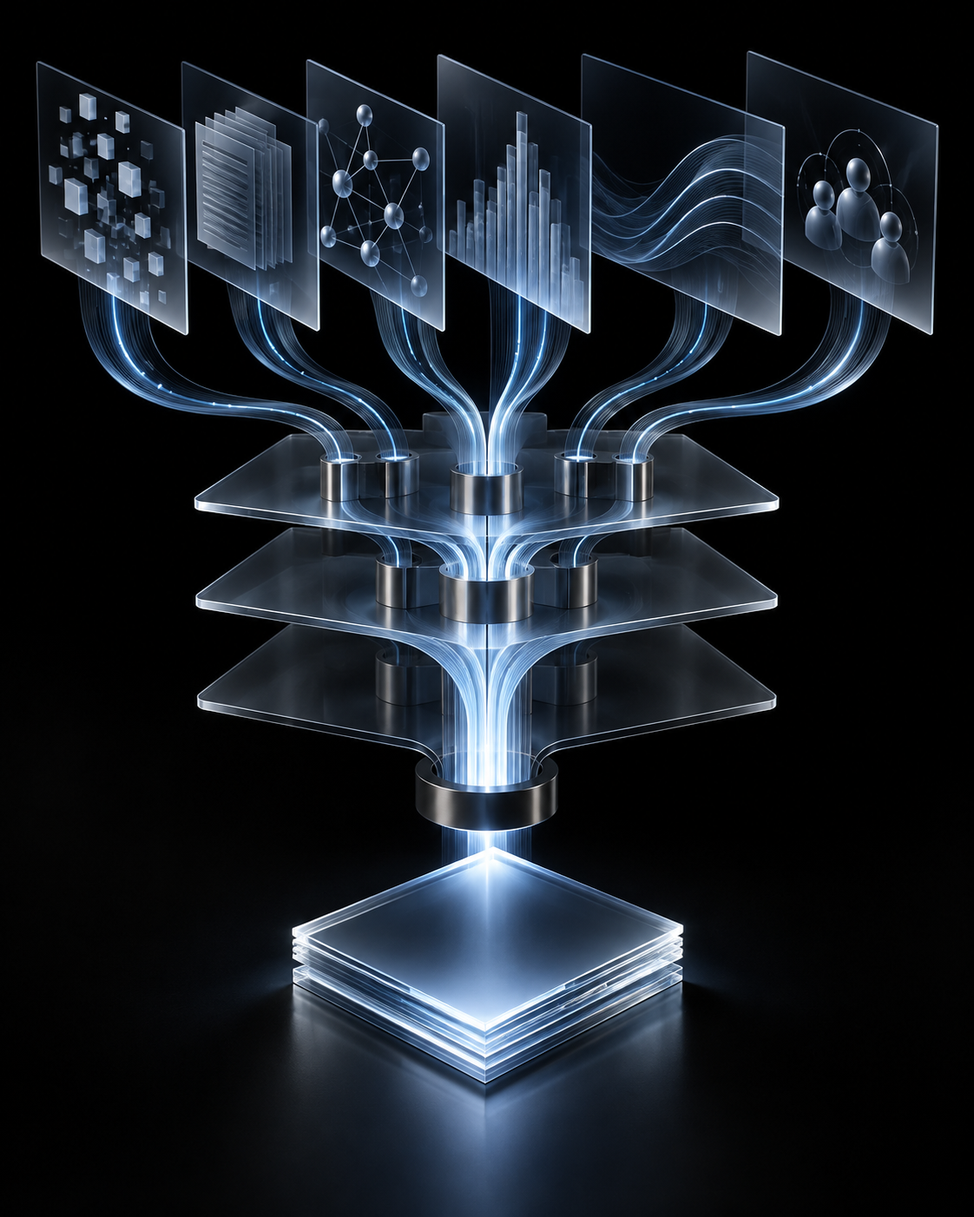
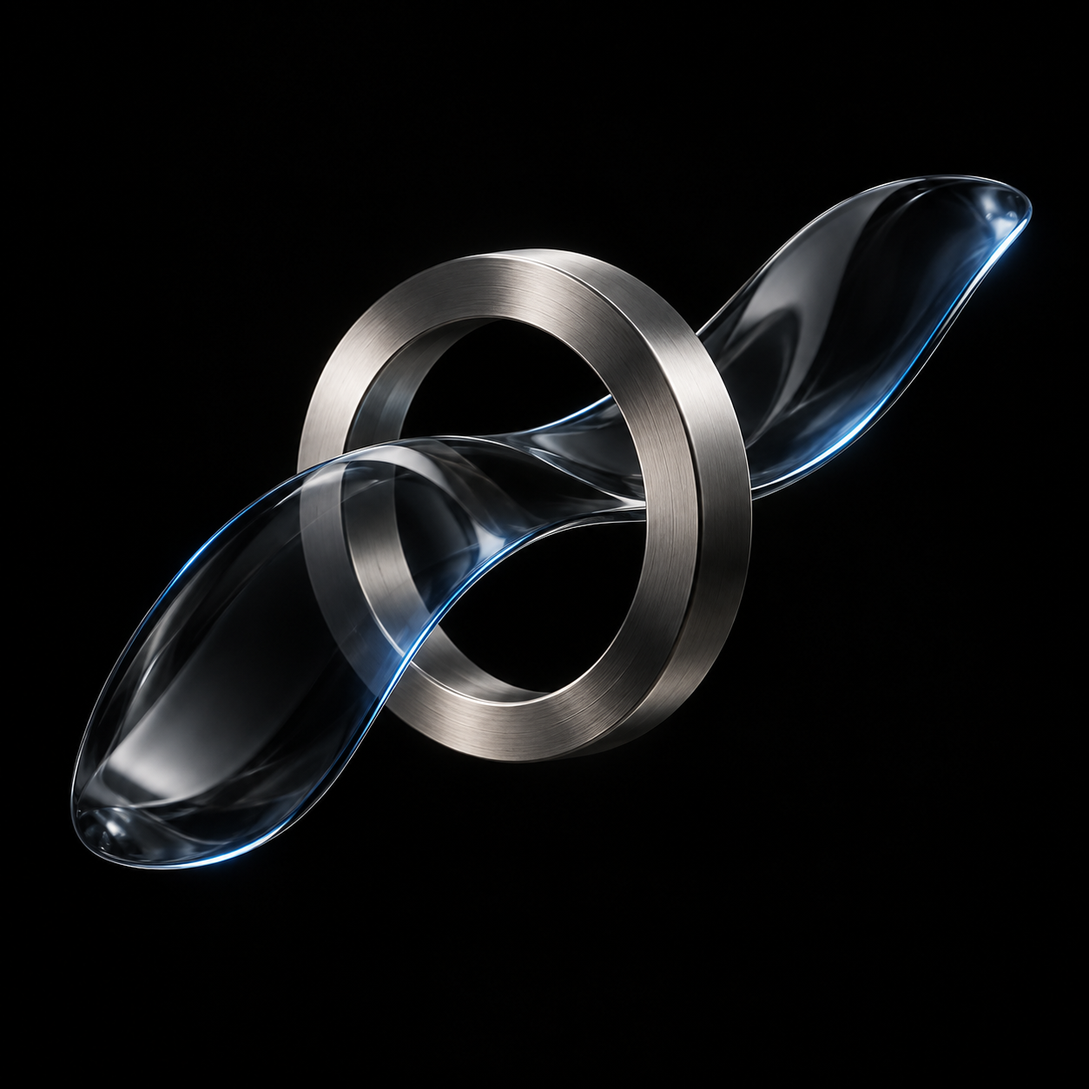
d

diff --git a/website_structure/assets/capability.css b/website_structure/assets/capability.css
@@ -5,8 +5,9 @@
 .band{padding:var(--section-y) 0}.band-paper{background:var(--paper)}.band-tint{background:var(--paper);border-top:1px solid var(--line);border-bottom:1px solid var(--line)}.band-dark{color:var(--on-dark);background:#000}.hero{min-height:min(900px,100svh);padding-top:96px}.hero-inner{display:flex;align-items:center;min-height:calc(min(900px,100svh) - 96px);padding-top:clamp(3rem,7vh,6rem);padding-bottom:clamp(3rem,8vh,6rem)}.hero-copy{width:100%}.hero h1{display:grid;max-width:760px;margin:0;font-size:var(--hero);font-weight:400;line-height:.9;letter-spacing:-.055em;text-wrap:balance}.hero-sans{font-family:var(--font-sans)}.hero-serif,.serif-accent{font-family:var(--font-serif);font-style:italic;font-weight:500}.gradient-word{background:linear-gradient(105deg,#8fb0d6,#14919b);background-clip:text;-webkit-background-clip:text;color:transparent}.hero-support{max-width:620px;margin:clamp(2.5rem,6vh,4.5rem) 0 0;color:var(--on-dark-muted);font-size:clamp(1.05rem,1.6vw,1.35rem)}.hero-actions{display:grid;justify-items:start;margin-top:2rem}.hero-actions .button{margin-top:0}.button-row{display:flex;gap:1.5rem}.text-link{display:inline-flex;align-items:center;gap:.5rem;margin-top:1.25rem;padding-bottom:.2rem;border-bottom:1px solid currentColor;font-size:.82rem;font-weight:600;letter-spacing:.07em;text-decoration:none;text-transform:uppercase}.text-link span{color:var(--teal-bright)}.text-link.light span{color:var(--sky)}
 .section-label{margin:0;color:var(--ink-muted);font-size:.82rem;font-weight:600;letter-spacing:.1em;text-transform:uppercase}.section-label-dark{color:var(--sky)}.statement-grid,.editorial-grid,.case-grid,.close-grid{display:grid;grid-template-columns:minmax(150px,.45fr) minmax(0,1.55fr);gap:clamp(2rem,7vw,8rem)}.statement-grid h2,.editorial-copy h2,.section-heading h2,.case-grid h2,.close-grid h2{margin:0;font-size:var(--h2);font-weight:400;line-height:1.02;letter-spacing:-.05em;text-wrap:balance}.brand-stamp{display:flex;align-items:center;align-self:start}.brand-stamp img{width:48px;height:48px;border-radius:3px}.statement-grid .lead-muted{max-width:700px;margin:2rem 0 0;color:var(--ink-muted);font-size:clamp(1.05rem,1.6vw,1.3rem)}.statement-approach .statement-grid{margin-bottom:clamp(5rem,10vw,9rem)}.approach-grid{display:grid;grid-template-columns:1fr 1fr;gap:clamp(2rem,7vw,8rem);align-items:start}.approach-grid>.section-label{font-family:var(--font-serif);font-size:clamp(1.2rem,1.6vw,1.5rem);font-style:italic;font-weight:500;letter-spacing:0;text-transform:none}.approach-copy{max-width:640px}.approach-copy p{margin:0 0 1.5rem;color:var(--ink-muted);font-size:clamp(1.05rem,1.55vw,1.25rem)}blockquote{margin:0;font-family:var(--font-serif);font-size:clamp(1.55rem,2.4vw,2.6rem);font-style:italic;line-height:1.25}.editorial-grid blockquote{align-self:end;border-left:2px solid var(--teal-bright);padding-left:1.5rem}
 .trust-band{padding:clamp(4rem,8vw,7rem) 0;border-bottom:1px solid var(--line)}.trust-band .section-label,.services .section-label{font-family:var(--font-serif);font-size:clamp(1.2rem,1.6vw,1.5rem);font-style:italic;font-weight:500;letter-spacing:0;text-transform:none}.trust-layout{display:grid;grid-template-columns:minmax(190px,.5fr) minmax(0,1.5fr);align-items:center;gap:clamp(2rem,6vw,6rem)}.trust-copy{align-self:start}.trust-copy .section-label{max-width:260px;color:var(--ink);line-height:1.2}.sector-list{margin:1.1rem 0 0;color:var(--ink-muted);font-size:.88rem;line-height:1.5}.sector-list span{padding:0 .35rem;color:var(--teal)}.logos{display:grid;grid-template-columns:repeat(3,minmax(0,1fr));gap:1rem;width:100%;max-width:760px;justify-self:center}.logo-card{display:grid;place-items:center;min-height:142px;padding:2rem;background:#f2f3f4}.logo-card img{width:auto;max-width:72%;height:auto;max-height:76px;object-fit:contain;filter:grayscale(1) contrast(1.2);opacity:.92}.logo-card:first-child img{max-height:68px}.logo-card .logo-word{display:grid;place-items:center;color:#000;font-size:clamp(1.75rem,2.5vw,2.35rem);font-weight:700;letter-spacing:-.08em;line-height:1}
-.services-intro{display:grid;grid-template-columns:.75fr 1fr;align-items:start;gap:clamp(2rem,7vw,8rem);padding-bottom:clamp(4rem,8vw,7rem)}.services-intro>.section-label{color:#fff}.services-lead{max-width:760px;margin:.1rem 0 0;color:var(--paper);font-size:clamp(1.2rem,1.8vw,1.55rem);font-weight:600;line-height:1.45;letter-spacing:-.02em}.service-row{display:grid;grid-template-columns:.14fr .7fr .94fr .66fr;gap:2rem;align-items:start;padding:clamp(3rem,6vw,5rem) 0;border-top:1px solid var(--line-dark)}.service-number{font-size:.75rem;letter-spacing:.1em}.service-title p{margin:0 0 .5rem;color:var(--sky);font-size:.8rem;font-weight:600;letter-spacing:.1em;text-transform:uppercase}.service-tender .service-title p{color:#5ee1d5}.service-title h3{margin:0;font-size:clamp(2.4rem,5vw,5.2rem);font-weight:400;line-height:1;letter-spacing:-.05em}.service-title p.service-summary{max-width:300px;margin:1.25rem 0 0;color:var(--on-dark-muted);font-size:.95rem;font-weight:400;letter-spacing:0;line-height:1.55;text-transform:none}.service-view{display:inline-flex;align-items:center;gap:1.3rem;margin-top:2rem;padding:.9rem 1.05rem;border:1px solid var(--line-dark);color:var(--paper);font-size:.75rem;font-weight:600;letter-spacing:.08em;text-decoration:none;text-transform:uppercase;transition:background .2s,color .2s}.service-view span{font-size:.65rem}.service-view:hover{color:var(--ink);background:var(--paper)}.service-row ul{margin:0;padding:0;list-style:none;color:var(--on-dark-muted)}.service-row li{padding:.45rem 0;border-bottom:1px solid rgba(255,255,255,.09)}.service-visual{align-self:start;margin:0}.service-visual img{width:100%;aspect-ratio:4/5;object-fit:cover;border-radius:4px}
+.services>.wrap{width:min(100%,calc(1600px + var(--gutter)*2))}.services-intro{display:grid;grid-template-columns:.75fr 1fr;align-items:start;gap:clamp(2rem,7vw,8rem);padding-bottom:clamp(4rem,8vw,7rem)}.services-intro>.section-label{color:#fff}.services-lead{max-width:760px;margin:.1rem 0 0;color:var(--paper);font-size:clamp(1.2rem,1.8vw,1.55rem);font-weight:600;line-height:1.45;letter-spacing:-.02em}.service-row{display:grid;grid-template-columns:8rem minmax(0,.95fr) minmax(0,1fr) minmax(300px,340px);gap:2rem;align-items:start;padding:clamp(3rem,6vw,5rem) 0;border-top:1px solid var(--line-dark)}.service-number{font-size:.75rem;letter-spacing:.1em}.service-title p{margin:0 0 .5rem;color:var(--sky);font-size:.8rem;font-weight:600;letter-spacing:.1em;text-transform:uppercase}.service-tender .service-title p{color:#5ee1d5}.service-title h3{margin:0;font-size:clamp(2.4rem,5vw,5.2rem);font-weight:400;line-height:1;letter-spacing:-.05em}.service-title p.service-summary{max-width:330px;margin:1.25rem 0 0;color:var(--on-dark-muted);font-size:.95rem;font-weight:400;letter-spacing:0;line-height:1.55;text-transform:none}.service-view{display:inline-flex;align-items:center;gap:1.3rem;margin-top:2rem;padding:.9rem 1.05rem;border:1px solid var(--line-dark);color:var(--paper);font-size:.75rem;font-weight:600;letter-spacing:.08em;text-decoration:none;text-transform:uppercase;transition:background .2s,color .2s}.service-view span{font-size:.65rem}.service-view:hover{color:var(--ink);background:var(--paper)}.service-row ul{margin:0;padding:0;list-style:none;color:var(--on-dark-muted)}.service-row li{padding:.45rem 0;border-bottom:1px solid rgba(255,255,255,.09)}.service-visual{align-self:start;margin:0}.service-visual img{width:100%;aspect-ratio:1;object-fit:cover;border-radius:4px}
 .section-heading{display:grid;grid-template-columns:.45fr 1.55fr;gap:clamp(2rem,7vw,8rem);margin-bottom:clamp(4rem,8vw,7rem)}.steps{display:grid;grid-template-columns:repeat(3,1fr);border-top:1px solid var(--line)}.steps article{padding:2rem clamp(1rem,3vw,2.5rem) 0 0}.steps article+article{border-left:1px solid var(--line);padding-left:clamp(1rem,3vw,2.5rem)}.steps span{color:var(--teal-bright);font-size:.75rem;font-weight:600;letter-spacing:.1em}.steps h3{margin:3rem 0 1rem;font-size:var(--h3);font-weight:500}.steps p{margin:0;color:var(--ink-muted)}.case-status{margin:0 0 1.25rem;color:var(--teal);font-size:.75rem;font-weight:600;letter-spacing:.1em;text-transform:uppercase}.case-grid>div>p:not(.case-status){max-width:580px;margin:1.5rem 0 0;color:var(--ink-muted);font-size:1.15rem}.about-preview .statement-grid>div>p{max-width:700px;margin:1.5rem 0 2.5rem;color:var(--ink-muted);font-size:1.15rem}.about-preview blockquote{max-width:800px;border-top:1px solid var(--line);padding-top:2rem}.closing-band{padding:clamp(5rem,10vw,9rem) 0}.close-grid p:not(.section-label){max-width:600px;color:var(--on-dark-muted);font-size:1.2rem}.button{display:inline-flex;align-items:center;gap:.6rem;margin-top:1.5rem;padding:1rem 1.2rem;text-decoration:none;font-size:.82rem;font-weight:600;letter-spacing:.06em;text-transform:uppercase}.button-light{color:var(--navy-deep);background:var(--paper)}.button-dark{color:var(--paper);background:var(--navy-deep)}
+@media(max-width:1150px){.service-row{grid-template-columns:4rem minmax(240px,.8fr) 1fr}.service-visual{grid-column:2/-1;width:min(100%,420px);margin-top:1.5rem}}
 .home-community{border-top:1px solid var(--line-dark)}.community-promise{display:grid;grid-template-columns:auto 1fr;column-gap:1rem;align-items:center}.community-promise img{grid-row:1/3;width:44px;height:44px;border-radius:3px}.community-promise .section-label{background:linear-gradient(105deg,#8fb0d6,#14919b);background-clip:text;-webkit-background-clip:text;color:transparent;font-size:.9rem}.home-community .community-promise h2{grid-column:1/-1;max-width:520px;margin-top:1.5rem;font-size:clamp(1.35rem,1.8vw,1.75rem);font-weight:400;line-height:1.25;letter-spacing:-.025em}.home-community h3{margin:0;font-size:clamp(1.45rem,2.2vw,2rem);font-family:var(--font-serif);font-style:italic;font-weight:500}.community-form-double{grid-template-columns:1fr 1fr auto;gap:1rem;border:0}.site-footer{padding:4rem 0 2rem;color:var(--on-dark-muted);background:#000;border-top:1px solid var(--line-dark)}.footer-grid{display:grid;grid-template-columns:.45fr 1fr 1fr;gap:2rem}.footer-mark{display:inline-flex;align-items:center;gap:.7rem;justify-self:start;color:var(--paper);font-size:1.15rem;font-weight:600;text-decoration:none}.footer-mark img{width:40px;height:40px;border-radius:3px}.site-footer p{max-width:320px;margin:.35rem 0}.site-footer nav{display:flex;justify-content:flex-end;gap:1.2rem}.site-footer nav a,.footer-meta a{text-decoration:none}.site-footer nav a:hover,.footer-meta a:hover{color:var(--paper)}.footer-meta{grid-column:1/-1;display:flex;gap:1.25rem;margin-top:3rem;padding-top:1.5rem;border-top:1px solid var(--line-dark);font-size:.75rem}
 @media(max-width:850px){.site-header,.overlay-top{height:78px}.site-header.is-scrolled{height:70px}.brand-icon{width:47px;height:47px}.brand-name{font-size:1.3rem}.menu-button,.contact-symbol{height:47px}.contact-symbol{width:47px}.hero{padding-top:78px}.hero-inner{min-height:calc(100svh - 78px)}.statement-grid,.approach-grid,.editorial-grid,.case-grid,.close-grid,.section-heading,.services-intro,.trust-layout{grid-template-columns:1fr}.editorial-grid blockquote{margin-top:2rem}.trust-layout{align-items:start}.trust-copy{text-align:center}.trust-copy .section-label{margin-inline:auto}.logos{grid-template-columns:1fr;width:min(100%,360px);margin-inline:auto}.logo-card{min-height:132px}.sector-list{white-space:normal}.services-intro{gap:1.25rem}.service-row{grid-template-columns:3rem 1fr}.service-row ul,.service-visual{grid-column:2/-1;margin-top:1rem}.service-visual{width:min(100%,420px);margin-top:1.75rem}.steps{grid-template-columns:1fr}.steps article{padding:2rem 0}.steps article+article{border-left:0;border-top:1px solid var(--line);padding-left:0}.steps h3{margin-top:1.5rem}.footer-grid{grid-template-columns:1fr}.site-footer nav{justify-content:flex-start;flex-wrap:wrap}}
 @media(max-width:520px){:root{--hero:clamp(2.8rem,13vw,3.8rem);--h2:clamp(2.1rem,10vw,3.2rem)}.contact-symbol{display:none}.menu-button{padding-inline:.85rem}.hero-support{margin-top:2.25rem}.hero-actions{margin-top:1.5rem}.button-row{gap:1rem}.service-row{grid-template-columns:2rem 1fr;gap:1rem}.service-view{margin-top:1.5rem;padding:.8rem .9rem}.overlay-nav a{font-size:clamp(1.75rem,9vw,2.75rem)}.community-form-double{grid-template-columns:1fr}.community-promise{grid-template-columns:auto 1fr}}

diff --git a/website_structure/index.html b/website_structure/index.html
@@ -7,7 +7,7 @@
   <link rel="canonical" href="https://www.ignisleadership.com/"><meta name="robots" content="index, follow">
   <meta property="og:type" content="website"><meta property="og:site_name" content="Ignis Leadership"><meta property="og:title" content="Governed human-AI systems for commercial teams | Ignis"><meta property="og:description" content="Stop AI roulette on live bids and tenders. Governed commercial capabilities for energy and infrastructure."><meta property="og:url" content="https://www.ignisleadership.com/"><meta property="og:image" content="https://www.ignisleadership.com/assets/img/og-social-card-v8.png"><meta name="twitter:card" content="summary_large_image">
   <link rel="preconnect" href="https://fonts.googleapis.com"><link rel="preconnect" href="https://fonts.gstatic.com" crossorigin><link href="https://fonts.googleapis.com/css2?family=Inter:wght@400;500;600;700&amp;family=Source+Serif+4:ital,wght@1,500&amp;display=swap" rel="stylesheet">
-  <link rel="stylesheet" href="/assets/capability.css?v=29"><link rel="icon" href="/favicon.ico" sizes="any">
+  <link rel="stylesheet" href="/assets/capability.css?v=30"><link rel="icon" href="/favicon.ico" sizes="any">
 </head>
 <body>
   <a class="skip-link" href="#main">Skip to content</a>
@@ -17,7 +17,7 @@
     <section class="hero band-dark"><div class="wrap hero-inner"><div class="hero-copy"><h1><span class="hero-sans">Stop playing</span><span class="gradient-word hero-serif">AI roulette</span></h1><p class="hero-support">Bid and tender consultancy for lean commercial teams that need more capacity without losing control.</p><div class="hero-actions"><a class="button button-light" href="/contact">Contact us <span aria-hidden="true">↗</span></a><div class="button-row"><a class="text-link light" href="/bid">Bid</a><a class="text-link light" href="/tender">Tender</a></div></div></div></div></section>
     <section class="band band-paper statement-approach" id="approach"><div class="wrap"><div class="statement-grid"><div class="brand-stamp"><img src="/assets/img/favicon-dark.png" alt="" width="48" height="48"></div><div><h2>I help lean commercial teams build <span class="serif-accent">governed human-AI</span> tools and processes to bid more, buy better and keep control.</h2></div></div><div class="approach-grid"><p class="section-label">Approach</p><div class="approach-copy"><p>Putting structure in place so everyone knows what we do and how we do it is how commercial desks win and buy under pressure.</p><p>That discipline now runs as a governed human-AI system along the bid and tender lifecycle.</p><a class="text-link" href="/about">Learn more <span aria-hidden="true">↗</span></a></div></div></div></section>
     <section class="trust-band band-paper"><div class="wrap trust-layout"><div class="trust-copy"><p class="section-label">17 years’ experience gained at</p><p class="sector-list">Energy <span>·</span> Infrastructure <span>·</span> Industrial</p></div><div class="logos" aria-label="Experience gained at bp, RWE and Bouygues"><div class="logo-card"><img src="/assets/img/logo-bp.png" alt="bp" width="378" height="499"></div><div class="logo-card"><span class="logo-word" role="img" aria-label="RWE">RWE</span></div><div class="logo-card"><img src="/assets/img/logo-bouygues-es.png" alt="Bouygues Energies &amp; Services" width="1772" height="1061"></div></div></div></section>
-    <section class="band band-dark services" id="capabilities"><div class="wrap"><div class="services-intro"><p class="section-label section-label-dark">Services</p><p class="services-lead">Partnering with commercial, bid and procurement leaders in energy, infrastructure and industrial markets.</p></div><article class="service-row service-bid"><span class="service-number">01</span><div class="service-title"><p>Bid</p><h3>Win work.</h3><p class="service-summary">Build repeatable bid capability without losing pace, judgement or control.</p><a class="service-view" href="/bid" aria-label="View Bid capabilities">View more <span aria-hidden="true">▶</span></a></div><ul><li>Bid process redesign and automation</li><li>Opportunity and customer intelligence</li><li>Governed human-AI bid workflow</li><li>Reusable evidence and commercial memory</li><li>Team adoption and continuous improvement</li></ul><figure class="service-visual"><img src="/assets/img/service-bid-abstract.png" alt="Abstract layers of evidence converging through a governed bid system" width="1122" height="1402" loading="lazy" decoding="async"></figure></article><article class="service-row service-tender"><span class="service-number">02</span><div class="service-title"><p>Tender</p><h3>Buy well.</h3><p class="service-summary">Create clearer comparisons and defensible awards without adding weight to the team.</p><a class="service-view" href="/tender" aria-label="View Tender capabilities">View more <span aria-hidden="true">▶</span></a></div><ul><li>Tender process redesign and automation</li><li>Automated tender preparation</li><li>Supplier evaluation and decision support</li><li>Governed human-AI tender workflow</li><li>Audit trail and commercial memory</li></ul><figure class="service-visual"><img src="/assets/img/service-tender-abstract.png" alt="Abstract supplier inputs resolving into a governed tender decision" width="1122" height="1402" loading="lazy" decoding="async"></figure></article></div></section>
+    <section class="band band-dark services" id="capabilities"><div class="wrap"><div class="services-intro"><p class="section-label section-label-dark">Services</p><p class="services-lead">Partnering with commercial, bid and procurement leaders in energy, infrastructure and industrial markets.</p></div><article class="service-row service-bid"><span class="service-number">01</span><div class="service-title"><p>Bid</p><h3>Win work.</h3><p class="service-summary">Build repeatable bid capability without losing pace, judgement or control.</p><a class="service-view" href="/bid" aria-label="View Bid capabilities">View more <span aria-hidden="true">▶</span></a></div><ul><li>Bid process redesign and automation</li><li>Opportunity and customer intelligence</li><li>Governed human-AI bid workflow</li><li>Reusable evidence and commercial memory</li><li>Team adoption and continuous improvement</li></ul><figure class="service-visual"><img src="/assets/img/service-bid-abstract.png?v=2" alt="Abstract glass ribbon passing through a precise metal ring" width="1254" height="1254" loading="lazy" decoding="async"></figure></article><article class="service-row service-tender"><span class="service-number">02</span><div class="service-title"><p>Tender</p><h3>Buy well.</h3><p class="service-summary">Create clearer comparisons and defensible awards without adding weight to the team.</p><a class="service-view" href="/tender" aria-label="View Tender capabilities">View more <span aria-hidden="true">▶</span></a></div><ul><li>Tender process redesign and automation</li><li>Automated tender preparation</li><li>Supplier evaluation and decision support</li><li>Governed human-AI tender workflow</li><li>Audit trail and commercial memory</li></ul><figure class="service-visual"><img src="/assets/img/service-tender-abstract.png?v=2" alt="Three aligned glass forms held in a precise metal frame" width="1254" height="1254" loading="lazy" decoding="async"></figure></article></div></section>
     <section class="band band-paper" id="services"><div class="wrap"><div class="section-heading"><p class="section-label">Engagement</p><h2>Start small. Prove it.<br><span class="serif-accent">Then move along.</span></h2></div><div class="steps"><article><span>01</span><h3>Discovery</h3><p>Audit the process and documents. Choose the first capability from your pain, resources and needs. Short, fixed fee.</p></article><article><span>02</span><h3>Design</h3><p>Build the capability, install it on your desk and train your team. Typically around £10k.</p></article><article><span>03</span><h3>Next</h3><p>Once proven, move along the lifecycle. The next building block, then the one after.</p></article></div></div></section>
     <section class="band band-tint case-preview"><div class="wrap case-grid"><p class="section-label">Case study spotlight</p><div><p class="case-status">First story in development</p><h2>From AI roulette to a desk that runs.</h2><p>A lean commercial desk. Live deadline pressure. One governed capability installed where the pain is loudest.</p><a class="text-link" href="/case-study">See the emerging story <span aria-hidden="true">↗</span></a></div></div></section>
     <section class="band band-paper about-preview"><div class="wrap statement-grid"><p class="section-label">Why Ignis</p><div><h2>Commercial leadership first. <span class="serif-accent">AI only with judgement.</span></h2><p>15+ years on both sides of complex bids and tenders, from project engineer to Bid Director, including bp, RWE and Bouygues.</p><blockquote>Technology should strengthen commercial judgement, not replace the name on the commitment.</blockquote><a class="text-link" href="/about">About Yorik <span aria-hidden="true">↗</span></a></div></div></section>

diff --git a/website_structure/contact.html b/website_structure/contact.html
@@ -1,4 +1,4 @@
-<!doctype html><html lang="en-GB"><head><meta charset="utf-8"><meta name="viewport" content="width=device-width,initial-scale=1"><title>Contact | Ignis Leadership</title><meta name="description" content="Talk to Ignis Leadership about the first governed bid or tender capability to install on your commercial desk."><link rel="canonical" href="https://www.ignisleadership.com/contact"><link rel="preconnect" href="https://fonts.googleapis.com"><link rel="preconnect" href="https://fonts.gstatic.com" crossorigin><link href="https://fonts.googleapis.com/css2?family=Inter:wght@400;500;600;700&amp;family=Source+Serif+4:ital,wght@1,500&amp;display=swap" rel="stylesheet"><link rel="stylesheet" href="/assets/capability.css?v=29"><link rel="icon" href="/favicon.ico"></head><body>
+<!doctype html><html lang="en-GB"><head><meta charset="utf-8"><meta name="viewport" content="width=device-width,initial-scale=1"><title>Contact | Ignis Leadership</title><meta name="description" content="Talk to Ignis Leadership about the first governed bid or tender capability to install on your commercial desk."><link rel="canonical" href="https://www.ignisleadership.com/contact"><link rel="preconnect" href="https://fonts.googleapis.com"><link rel="preconnect" href="https://fonts.gstatic.com" crossorigin><link href="https://fonts.googleapis.com/css2?family=Inter:wght@400;500;600;700&amp;family=Source+Serif+4:ital,wght@1,500&amp;display=swap" rel="stylesheet"><link rel="stylesheet" href="/assets/capability.css?v=30"><link rel="icon" href="/favicon.ico"></head><body>
 <a class="skip-link" href="#main">Skip to content</a><header class="site-header"><a class="wordmark" href="/" aria-label="Ignis Leadership home"><span class="brand-icon"><img src="/assets/img/favicon-light.png" alt="" width="48" height="48"></span><span class="brand-name"><span class="brand-accent">I</span>gnis</span></a><div class="header-actions"><a class="contact-symbol" href="/contact" aria-label="Contact us"><span aria-hidden="true">↗</span></a><button class="menu-button" type="button" aria-expanded="false" aria-controls="menu-overlay" data-menu-open><span>Menu</span><i aria-hidden="true"></i></button></div></header><div class="menu-overlay" id="menu-overlay" aria-hidden="true" data-menu-overlay><div class="overlay-top"><a class="wordmark" href="/" aria-label="Ignis Leadership home"><span class="brand-icon"><img src="/assets/img/favicon-light.png" alt="" width="48" height="48"></span><span class="brand-name"><span class="brand-accent">I</span>gnis</span></a><button class="menu-close" type="button" data-menu-close>Close <span aria-hidden="true">×</span></button></div><nav class="overlay-nav" aria-label="Main navigation"><a href="/about"><span>01</span>About</a><a href="/bid"><span>02</span>Bid</a><a href="/tender"><span>03</span>Tender</a><a href="/case-study"><span>04</span>Case study</a><a href="/insights"><span>05</span>Insights</a><a href="/contact"><span>06</span>Contact us</a></nav><p class="overlay-note">Governed human-AI capability for commercial teams.</p></div>
 <main id="main"><section class="page-hero band-dark"><div class="wrap page-hero-grid"><p class="section-label">Contact</p><div class="page-hero-copy"><h1>Where does it hurt this quarter?</h1><p>One conversation. We name the capability. We decide whether there is a small, governed system worth putting on your desk.</p></div></div></section>
 <section class="band band-paper"><div class="wrap contact-layout"><div class="contact-intro"><h2>Start the conversation.</h2><p>Tell me where capacity, control or continuity breaks on the next bid or tender.</p><div class="contact-direct"><a href="mailto:yorik@ignisleadership.com">yorik@ignisleadership.com</a><a href="https://www.linkedin.com/in/yorik-tisseau/" target="_blank" rel="noopener">LinkedIn ↗</a></div></div><form class="contact-form" action="/api/contact" method="post" data-contact-form><div class="field field-full"><label for="name">Full name</label><input id="name" name="name" autocomplete="name" placeholder="Your name" required></div><div class="field field-full"><label for="email">Email</label><input id="email" name="email" type="email" autocomplete="email" placeholder="you@company.com" required></div><div class="field field-full"><label for="phone">Phone</label><input id="phone" name="phone" type="tel" autocomplete="tel" placeholder="+44"></div><div class="field field-full field-description"><label for="message">Description</label><textarea id="message" name="message" placeholder="Where is the pressure, what needs to improve, and what would a useful first result look like?"></textarea></div><input type="hidden" name="source" value="website"><input type="hidden" name="page_url"><input type="text" name="company_website" tabindex="-1" autocomplete="off" aria-hidden="true" style="position:absolute;left:-9999px"><button class="button button-dark" type="submit">Submit <span aria-hidden="true">↗</span></button><p class="form-status" data-form-status aria-live="polite"></p></form></div></section></main>

diff --git a/website_structure/case-study.html b/website_structure/case-study.html
@@ -1,4 +1,4 @@
-<!doctype html><html lang="en-GB"><head><meta charset="utf-8"><meta name="viewport" content="width=device-width,initial-scale=1"><title>Case study | Ignis Leadership</title><meta name="description" content="How Ignis turns a pressured commercial workflow into a governed human-AI capability the team keeps."><link rel="canonical" href="https://www.ignisleadership.com/case-study"><link rel="preconnect" href="https://fonts.googleapis.com"><link rel="preconnect" href="https://fonts.gstatic.com" crossorigin><link href="https://fonts.googleapis.com/css2?family=Inter:wght@400;500;600;700&amp;family=Source+Serif+4:ital,wght@1,500&amp;display=swap" rel="stylesheet"><link rel="stylesheet" href="/assets/capability.css?v=29"><link rel="icon" href="/favicon.ico"></head><body>
+<!doctype html><html lang="en-GB"><head><meta charset="utf-8"><meta name="viewport" content="width=device-width,initial-scale=1"><title>Case study | Ignis Leadership</title><meta name="description" content="How Ignis turns a pressured commercial workflow into a governed human-AI capability the team keeps."><link rel="canonical" href="https://www.ignisleadership.com/case-study"><link rel="preconnect" href="https://fonts.googleapis.com"><link rel="preconnect" href="https://fonts.gstatic.com" crossorigin><link href="https://fonts.googleapis.com/css2?family=Inter:wght@400;500;600;700&amp;family=Source+Serif+4:ital,wght@1,500&amp;display=swap" rel="stylesheet"><link rel="stylesheet" href="/assets/capability.css?v=30"><link rel="icon" href="/favicon.ico"></head><body>
 <a class="skip-link" href="#main">Skip to content</a><header class="site-header"><a class="wordmark" href="/" aria-label="Ignis Leadership home"><span class="brand-icon"><img src="/assets/img/favicon-light.png" alt="" width="48" height="48"></span><span class="brand-name"><span class="brand-accent">I</span>gnis</span></a><div class="header-actions"><a class="contact-symbol" href="/contact" aria-label="Contact us"><span aria-hidden="true">↗</span></a><button class="menu-button" type="button" aria-expanded="false" aria-controls="menu-overlay" data-menu-open><span>Menu</span><i aria-hidden="true"></i></button></div></header><div class="menu-overlay" id="menu-overlay" aria-hidden="true" data-menu-overlay><div class="overlay-top"><a class="wordmark" href="/" aria-label="Ignis Leadership home"><span class="brand-icon"><img src="/assets/img/favicon-light.png" alt="" width="48" height="48"></span><span class="brand-name"><span class="brand-accent">I</span>gnis</span></a><button class="menu-close" type="button" data-menu-close>Close <span aria-hidden="true">×</span></button></div><nav class="overlay-nav" aria-label="Main navigation"><a href="/about"><span>01</span>About</a><a href="/bid"><span>02</span>Bid</a><a href="/tender"><span>03</span>Tender</a><a href="/case-study"><span>04</span>Case study</a><a href="/insights"><span>05</span>Insights</a><a href="/contact"><span>06</span>Contact us</a></nav><p class="overlay-note">Governed human-AI capability for commercial teams.</p></div>
 <main id="main"><section class="page-hero band-dark"><div class="wrap page-hero-grid"><p class="section-label">Case study spotlight</p><div class="page-hero-copy"><h1>From AI roulette to a desk that runs.</h1><p>The pattern behind the first Ignis capability: a lean commercial desk, deadline pressure and one governed system installed where the pain is loudest.</p><div class="button-row"><a class="text-link light" href="/contact">Talk about your first capability <span aria-hidden="true">↗</span></a></div></div></div></section>
 <section class="band band-paper"><div class="wrap case-story"><p class="section-label">The emerging story</p><div class="case-story-content"><p>The work starts before an agent is chosen. We find the decision, handoff or repeated production task that is consuming capacity. Then define what people must keep and what the system can safely carry.</p><div class="case-sequence"><article><span>01</span><h3>Before</h3><p>Critical information scattered across documents, inboxes and individual memory. Rework grows as the deadline closes.</p></article><article><span>02</span><h3>Installed</h3><p>One bounded workflow with trusted sources, explicit gates and human approval on every commitment.</p></article><article><span>03</span><h3>After</h3><p>A repeatable capability the team can run, challenge and improve, with the commercial trail intact.</p></article></div><p class="honesty-note"><strong>A note on proof:</strong> the first named client story is being documented. Until client permission is secured, this page describes the engagement pattern rather than inventing results.</p></div></div></section>

diff --git a/website_structure/bid.html b/website_structure/bid.html
@@ -1,4 +1,4 @@
-<!doctype html><html lang="en-GB"><head><meta charset="utf-8"><meta name="viewport" content="width=device-width,initial-scale=1"><title>Bid capabilities | Ignis Leadership</title><meta name="description" content="Governed human-agent bid capabilities: go/no-go, win themes, draft, red team, submission and handover. People on judgement; agents on the grind."><link rel="canonical" href="https://www.ignisleadership.com/bid"><link rel="preconnect" href="https://fonts.googleapis.com"><link rel="preconnect" href="https://fonts.gstatic.com" crossorigin><link href="https://fonts.googleapis.com/css2?family=Inter:wght@400;500;600;700&amp;family=Source+Serif+4:ital,wght@1,500&amp;display=swap" rel="stylesheet"><link rel="stylesheet" href="/assets/capability.css?v=29"><link rel="icon" href="/favicon.ico"></head><body class="bid-page">
+<!doctype html><html lang="en-GB"><head><meta charset="utf-8"><meta name="viewport" content="width=device-width,initial-scale=1"><title>Bid capabilities | Ignis Leadership</title><meta name="description" content="Governed human-agent bid capabilities: go/no-go, win themes, draft, red team, submission and handover. People on judgement; agents on the grind."><link rel="canonical" href="https://www.ignisleadership.com/bid"><link rel="preconnect" href="https://fonts.googleapis.com"><link rel="preconnect" href="https://fonts.gstatic.com" crossorigin><link href="https://fonts.googleapis.com/css2?family=Inter:wght@400;500;600;700&amp;family=Source+Serif+4:ital,wght@1,500&amp;display=swap" rel="stylesheet"><link rel="stylesheet" href="/assets/capability.css?v=30"><link rel="icon" href="/favicon.ico"></head><body class="bid-page">
 <a class="skip-link" href="#main">Skip to content</a><header class="site-header"><a class="wordmark" href="/" aria-label="Ignis Leadership home"><span class="brand-icon"><img src="/assets/img/favicon-light.png" alt="" width="48" height="48"></span><span class="brand-name"><span class="brand-accent">I</span>gnis</span></a><div class="header-actions"><a class="contact-symbol" href="/contact" aria-label="Contact us"><span aria-hidden="true">↗</span></a><button class="menu-button" type="button" aria-expanded="false" aria-controls="menu-overlay" data-menu-open><span>Menu</span><i aria-hidden="true"></i></button></div></header><div class="menu-overlay" id="menu-overlay" aria-hidden="true" data-menu-overlay><div class="overlay-top"><a class="wordmark" href="/" aria-label="Ignis Leadership home"><span class="brand-icon"><img src="/assets/img/favicon-light.png" alt="" width="48" height="48"></span><span class="brand-name"><span class="brand-accent">I</span>gnis</span></a><button class="menu-close" type="button" data-menu-close>Close <span aria-hidden="true">×</span></button></div><nav class="overlay-nav" aria-label="Main navigation"><a href="/about"><span>01</span>About</a><a href="/bid"><span>02</span>Bid</a><a href="/tender"><span>03</span>Tender</a><a href="/case-study"><span>04</span>Case study</a><a href="/insights"><span>05</span>Insights</a><a href="/contact"><span>06</span>Contact us</a></nav><p class="overlay-note">Governed human-AI capability for commercial teams.</p></div>
 <main id="main"><section class="page-hero band-dark"><div class="wrap page-hero-grid"><p class="section-label">Win work</p><div class="page-hero-copy"><h1>Bid capabilities. One governed system, lit one chunk at a time.</h1><p>For lean energy and infrastructure desks that compete for work and refuse AI roulette on a live pursuit. Your people lead strategy and relationships. Agents extract, draft, check and carry the trail.</p><div class="button-row"><a class="text-link light" href="/contact?interest=Bid">Talk about a first capability <span aria-hidden="true">↗</span></a><a class="text-link light" href="/#services">How you buy <span aria-hidden="true">↓</span></a></div></div></div></section>
 <section class="micro-band"><div class="wrap"><p>How a capability works</p><p>Design + pilot compressed · typically around £10k · gates and evaluation · commercial memory stays yours · each pursuit sharpens the next.</p></div></section>

diff --git a/website_structure/tender.html b/website_structure/tender.html
@@ -1,4 +1,4 @@
-<!doctype html><html lang="en-GB"><head><meta charset="utf-8"><meta name="viewport" content="width=device-width,initial-scale=1"><title>Tender capabilities | Ignis Leadership</title><meta name="description" content="Governed human-agent tender capabilities: prep pack, appraisal, clarifications, comparable evaluation, award and handoff."><link rel="canonical" href="https://www.ignisleadership.com/tender"><link rel="preconnect" href="https://fonts.googleapis.com"><link rel="preconnect" href="https://fonts.gstatic.com" crossorigin><link href="https://fonts.googleapis.com/css2?family=Inter:wght@400;500;600;700&amp;family=Source+Serif+4:ital,wght@1,500&amp;display=swap" rel="stylesheet"><link rel="stylesheet" href="/assets/capability.css?v=29"><link rel="icon" href="/favicon.ico"></head><body class="tender-page">
+<!doctype html><html lang="en-GB"><head><meta charset="utf-8"><meta name="viewport" content="width=device-width,initial-scale=1"><title>Tender capabilities | Ignis Leadership</title><meta name="description" content="Governed human-agent tender capabilities: prep pack, appraisal, clarifications, comparable evaluation, award and handoff."><link rel="canonical" href="https://www.ignisleadership.com/tender"><link rel="preconnect" href="https://fonts.googleapis.com"><link rel="preconnect" href="https://fonts.gstatic.com" crossorigin><link href="https://fonts.googleapis.com/css2?family=Inter:wght@400;500;600;700&amp;family=Source+Serif+4:ital,wght@1,500&amp;display=swap" rel="stylesheet"><link rel="stylesheet" href="/assets/capability.css?v=30"><link rel="icon" href="/favicon.ico"></head><body class="tender-page">
 <a class="skip-link" href="#main">Skip to content</a><header class="site-header"><a class="wordmark" href="/" aria-label="Ignis Leadership home"><span class="brand-icon"><img src="/assets/img/favicon-light.png" alt="" width="48" height="48"></span><span class="brand-name"><span class="brand-accent">I</span>gnis</span></a><div class="header-actions"><a class="contact-symbol" href="/contact" aria-label="Contact us"><span aria-hidden="true">↗</span></a><button class="menu-button" type="button" aria-expanded="false" aria-controls="menu-overlay" data-menu-open><span>Menu</span><i aria-hidden="true"></i></button></div></header><div class="menu-overlay" id="menu-overlay" aria-hidden="true" data-menu-overlay><div class="overlay-top"><a class="wordmark" href="/" aria-label="Ignis Leadership home"><span class="brand-icon"><img src="/assets/img/favicon-light.png" alt="" width="48" height="48"></span><span class="brand-name"><span class="brand-accent">I</span>gnis</span></a><button class="menu-close" type="button" data-menu-close>Close <span aria-hidden="true">×</span></button></div><nav class="overlay-nav" aria-label="Main navigation"><a href="/about"><span>01</span>About</a><a href="/bid"><span>02</span>Bid</a><a href="/tender"><span>03</span>Tender</a><a href="/case-study"><span>04</span>Case study</a><a href="/insights"><span>05</span>Insights</a><a href="/contact"><span>06</span>Contact us</a></nav><p class="overlay-note">Governed human-AI capability for commercial teams.</p></div>
 <main id="main"><section class="page-hero tender-hero band-dark"><div class="wrap page-hero-grid"><p class="section-label">Buy well</p><div class="page-hero-copy"><h1>Tender capabilities. One governed system, lit one chunk at a time.</h1><p>For lean energy and infrastructure desks that issue and evaluate, and still want a name on the award. Your people own the decision. Agents reconcile, compare and keep one version of truth.</p><div class="button-row"><a class="text-link light" href="/contact?interest=Tender">Talk about a first capability <span aria-hidden="true">↗</span></a><a class="text-link light" href="/#services">How you buy <span aria-hidden="true">↓</span></a></div></div></div></section>
 <section class="micro-band tender-micro"><div class="wrap"><p>How a capability works</p><p>Design + pilot compressed · typically around £10k · gates and evaluation · commercial memory stays yours · each package sharpens the next.</p></div></section>

diff --git a/website_structure/about.html b/website_structure/about.html
@@ -1,4 +1,4 @@
-<!doctype html><html lang="en-GB"><head><meta charset="utf-8"><meta name="viewport" content="width=device-width,initial-scale=1"><title>About Yorik Tisseau | Ignis Leadership</title><meta name="description" content="Commercial leadership and governed human-AI systems for energy and infrastructure bids and tenders."><link rel="canonical" href="https://www.ignisleadership.com/about"><link rel="preconnect" href="https://fonts.googleapis.com"><link rel="preconnect" href="https://fonts.gstatic.com" crossorigin><link href="https://fonts.googleapis.com/css2?family=Inter:wght@400;500;600;700&amp;family=Source+Serif+4:ital,wght@1,500&amp;display=swap" rel="stylesheet"><link rel="stylesheet" href="/assets/capability.css?v=29"><link rel="icon" href="/favicon.ico"></head><body>
+<!doctype html><html lang="en-GB"><head><meta charset="utf-8"><meta name="viewport" content="width=device-width,initial-scale=1"><title>About Yorik Tisseau | Ignis Leadership</title><meta name="description" content="Commercial leadership and governed human-AI systems for energy and infrastructure bids and tenders."><link rel="canonical" href="https://www.ignisleadership.com/about"><link rel="preconnect" href="https://fonts.googleapis.com"><link rel="preconnect" href="https://fonts.gstatic.com" crossorigin><link href="https://fonts.googleapis.com/css2?family=Inter:wght@400;500;600;700&amp;family=Source+Serif+4:ital,wght@1,500&amp;display=swap" rel="stylesheet"><link rel="stylesheet" href="/assets/capability.css?v=30"><link rel="icon" href="/favicon.ico"></head><body>
 <a class="skip-link" href="#main">Skip to content</a><header class="site-header"><a class="wordmark" href="/" aria-label="Ignis Leadership home"><span class="brand-icon"><img src="/assets/img/favicon-light.png" alt="" width="48" height="48"></span><span class="brand-name"><span class="brand-accent">I</span>gnis</span></a><div class="header-actions"><a class="contact-symbol" href="/contact" aria-label="Contact us"><span aria-hidden="true">↗</span></a><button class="menu-button" type="button" aria-expanded="false" aria-controls="menu-overlay" data-menu-open><span>Menu</span><i aria-hidden="true"></i></button></div></header>
 <div class="menu-overlay" id="menu-overlay" aria-hidden="true" data-menu-overlay><div class="overlay-top"><a class="wordmark" href="/" aria-label="Ignis Leadership home"><span class="brand-icon"><img src="/assets/img/favicon-light.png" alt="" width="48" height="48"></span><span class="brand-name"><span class="brand-accent">I</span>gnis</span></a><button class="menu-close" type="button" data-menu-close>Close <span aria-hidden="true">×</span></button></div><nav class="overlay-nav" aria-label="Main navigation"><a href="/about"><span>01</span>About</a><a href="/bid"><span>02</span>Bid</a><a href="/tender"><span>03</span>Tender</a><a href="/case-study"><span>04</span>Case study</a><a href="/insights"><span>05</span>Insights</a><a href="/contact"><span>06</span>Contact us</a></nav><p class="overlay-note">Governed human-AI capability for commercial teams.</p></div>
 <main id="main"><section class="page-hero band-dark"><div class="wrap page-hero-grid"><p class="section-label">About</p><div class="page-hero-copy"><h1>Commercial leadership first. AI applied with judgement.</h1><p>I’m Yorik Tisseau. I help lean commercial teams in energy and infrastructure add bid and tender capacity without handing over judgement, or rushing to hire.</p><div class="button-row"><a class="text-link light" href="/contact">Start a conversation <span aria-hidden="true">↗</span></a></div></div></div></section>

diff --git a/website_structure/insights.html b/website_structure/insights.html
@@ -1,4 +1,4 @@
-<!doctype html><html lang="en-GB"><head><meta charset="utf-8"><meta name="viewport" content="width=device-width,initial-scale=1"><title>Insights | Ignis Leadership</title><meta name="description" content="Notes on commercial judgement, governed AI, and what is changing on the bid and tender desk."><link rel="canonical" href="https://www.ignisleadership.com/insights"><link rel="preconnect" href="https://fonts.googleapis.com"><link rel="preconnect" href="https://fonts.gstatic.com" crossorigin><link href="https://fonts.googleapis.com/css2?family=Inter:wght@400;500;600;700&amp;family=Source+Serif+4:ital,wght@1,500&amp;display=swap" rel="stylesheet"><link rel="stylesheet" href="/assets/capability.css?v=29"><link rel="icon" href="/favicon.ico"></head><body>
+<!doctype html><html lang="en-GB"><head><meta charset="utf-8"><meta name="viewport" content="width=device-width,initial-scale=1"><title>Insights | Ignis Leadership</title><meta name="description" content="Notes on commercial judgement, governed AI, and what is changing on the bid and tender desk."><link rel="canonical" href="https://www.ignisleadership.com/insights"><link rel="preconnect" href="https://fonts.googleapis.com"><link rel="preconnect" href="https://fonts.gstatic.com" crossorigin><link href="https://fonts.googleapis.com/css2?family=Inter:wght@400;500;600;700&amp;family=Source+Serif+4:ital,wght@1,500&amp;display=swap" rel="stylesheet"><link rel="stylesheet" href="/assets/capability.css?v=30"><link rel="icon" href="/favicon.ico"></head><body>
 <a class="skip-link" href="#main">Skip to content</a><header class="site-header"><a class="wordmark" href="/" aria-label="Ignis Leadership home"><span class="brand-icon"><img src="/assets/img/favicon-light.png" alt="" width="48" height="48"></span><span class="brand-name"><span class="brand-accent">I</span>gnis</span></a><div class="header-actions"><a class="contact-symbol" href="/contact" aria-label="Contact us"><span aria-hidden="true">↗</span></a><button class="menu-button" type="button" aria-expanded="false" aria-controls="menu-overlay" data-menu-open><span>Menu</span><i aria-hidden="true"></i></button></div></header><div class="menu-overlay" id="menu-overlay" aria-hidden="true" data-menu-overlay><div class="overlay-top"><a class="wordmark" href="/" aria-label="Ignis Leadership home"><span class="brand-icon"><img src="/assets/img/favicon-light.png" alt="" width="48" height="48"></span><span class="brand-name"><span class="brand-accent">I</span>gnis</span></a><button class="menu-close" type="button" data-menu-close>Close <span aria-hidden="true">×</span></button></div><nav class="overlay-nav" aria-label="Main navigation"><a href="/about"><span>01</span>About</a><a href="/bid"><span>02</span>Bid</a><a href="/tender"><span>03</span>Tender</a><a href="/case-study"><span>04</span>Case study</a><a href="/insights"><span>05</span>Insights</a><a href="/contact"><span>06</span>Contact us</a></nav><p class="overlay-note">Governed human-AI capability for commercial teams.</p></div>
 <main id="main"><section class="page-hero band-dark"><div class="wrap page-hero-grid"><p class="section-label">Latest insights</p><div class="page-hero-copy"><h1>Notes from the commercial desk.</h1><p>Short field notes on decision-making, commercial memory and governed human-AI systems.</p></div></div></section>
 <section class="band band-paper"><div class="wrap"><div class="insights-list">
